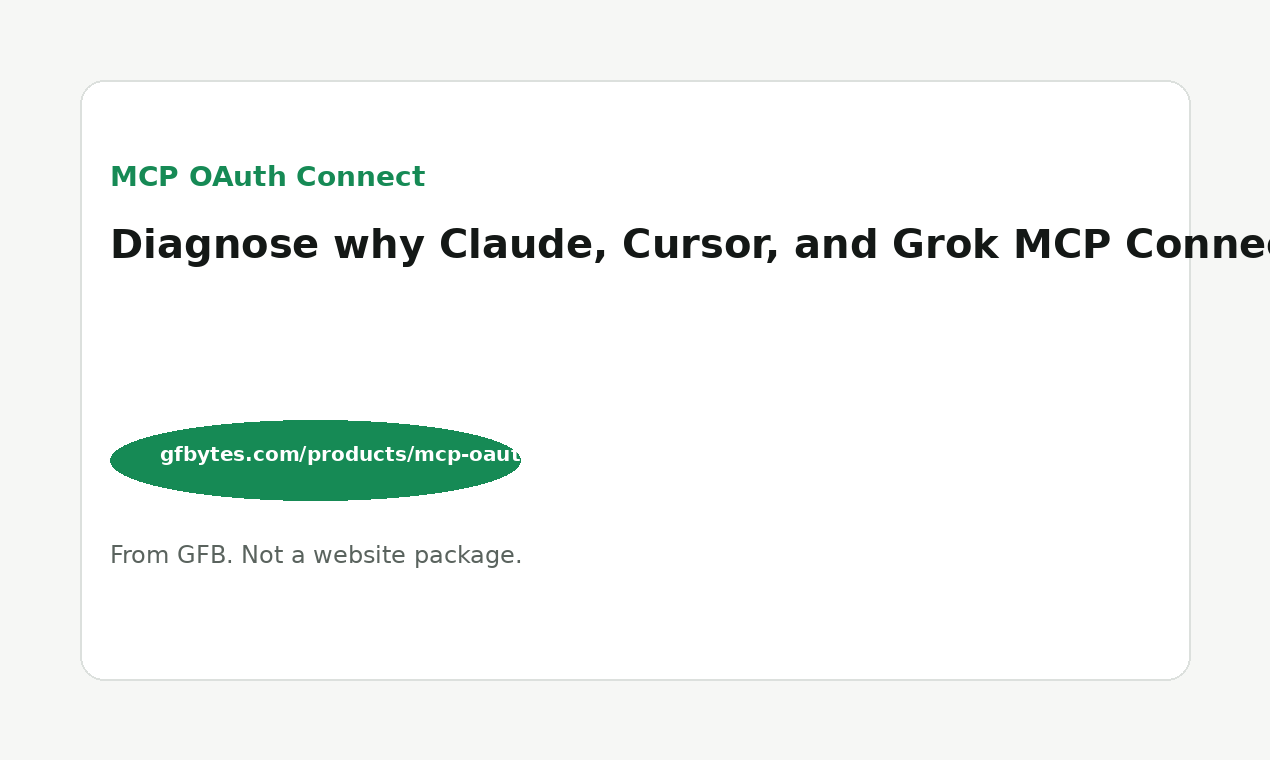
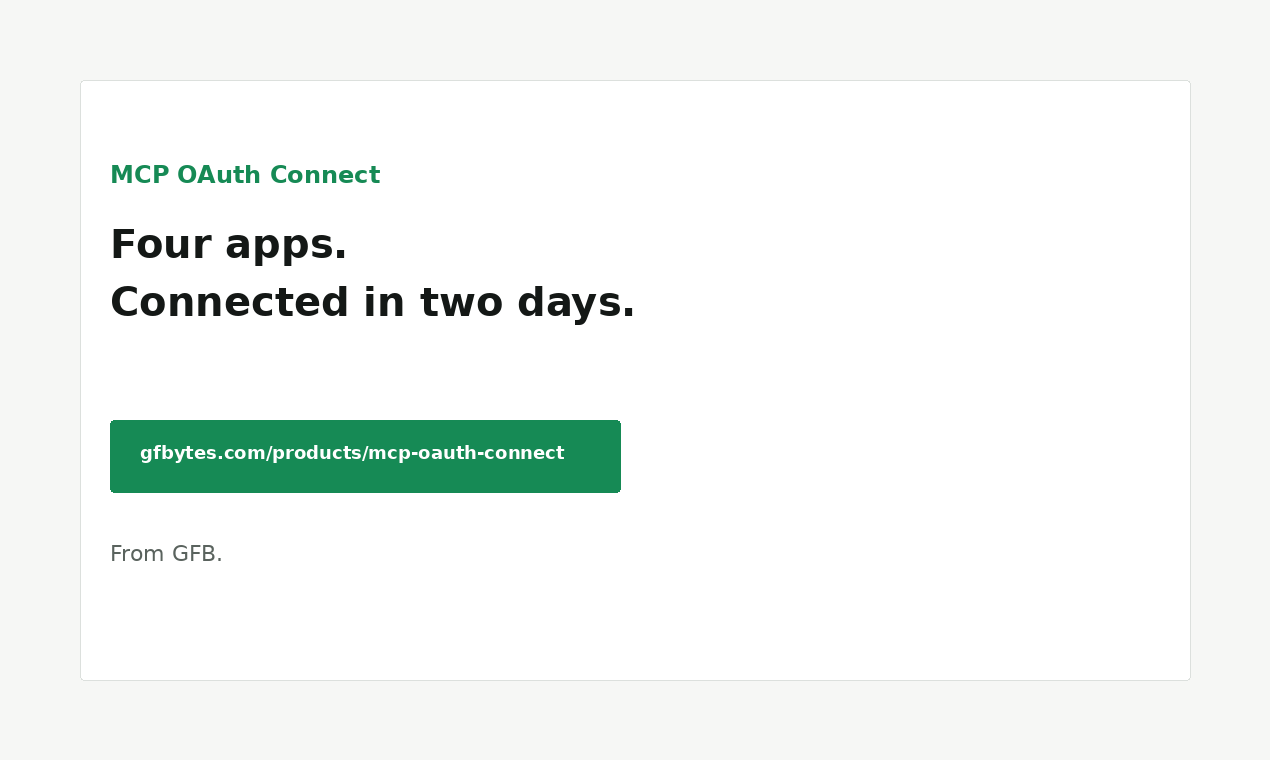
Finish connection-report copy on PH kit and seller docs.
GitHub already sold the $149 report in README/product/landing; this clears
leftover FastMCP-extract language in Product Hunt files, template README,
and license/catalog naming.

diff --git a/license/README.md b/license/README.md
@@ -1,16 +1,16 @@
-# License / cash register (v0.4 gated attach)
+# License / cash register (connection report)
 
-The plugin skill, diagnose script, tests, and `template/` example are MIT. **$149 is a diagnose-gated four-host attach transcript**, not a key to run `template/`.
+The plugin skill, diagnose script, tests, and `template/` example are MIT. **$149 is the connection report** — diagnose-gated four-host screenshots from GFB accounts — not a key to run `template/`.
 
 **Price: $149 one-time.** One round. Two business days. Not monthly. Not Care/Rescue.
 
 **Do not charge inside Cursor official Marketplace.** Charge on the landing Payment Link.
 
-## v0.4 cash register
+## Cash register
 
 Stripe Payment Link on the existing GFB Stripe account. Same legal entity. No Gumroad. No second Stripe identity. Do **not** wire this SKU through `gfb-rescue`.
 
-Product: `prod_V9pfxkWxzrujfU` (name: Four-host attach)
+Product: `prod_V9pfxkWxzrujfU` (MCP connection report)
 Price: `price_1U9qko0hd61SUNoB2zK07NmT` ($149)
 Link: `plink_1U9qko0hd61SUNoBxceRWZZt` https://buy.stripe.com/3cI6oz64ybZJ2dP4ev3Nm0l
 Required custom field: `mcp_url` (MCP URL, 12–255 chars)
@@ -18,6 +18,6 @@ Required custom field: `mcp_url` (MCP URL, 12–255 chars)
 1. Buyer pays via the Payment Link (must paste MCP URL at checkout)
 2. Success URL is `/products/mcp-oauth-connect/thank-you`
 3. Greg runs `diagnose.py` on that URL
-4. Pass → attach from GFB claude.ai / Desktop / Cursor / Grok → deliver transcript (four connected screenshots + handshake capture) within two business days
+4. Pass → connect from GFB claude.ai / Desktop / Cursor / Grok → deliver screenshots within two business days
 5. Fail → quote a separate fix round. Entra without DCR, custom IdPs, consent UI, hosted tenancy, host tools are out of the $149 round
 6. Do **not** run `license/issue.py` for this SKU

diff --git a/catalogs/PUBLISH.md b/catalogs/PUBLISH.md
@@ -1,8 +1,8 @@
 # Catalog pack — MCP OAuth Connect (diagnose origin)
 
-**FREEZE (2026-09-02):** no new catalog submissions (registry republish, Smithery, Glama, PulseMCP, Cursor, Claude directory, extra Grok PRs) until an attach payer exists. Live registry entry and open Grok PR #410 stay as **diagnose-only**. Paid SKU is four-host attach on gfbytes.com, off-catalog.
+**FREEZE (2026-09-02):** no new catalog submissions (registry republish, Smithery, Glama, PulseMCP, Cursor, Claude directory, extra Grok PRs) until a connection-report payer exists. Live registry entry and open Grok PR #410 stay as **diagnose-only**. Paid SKU is the connection report on gfbytes.com, off-catalog.
 
-List the **public ping origin** and the **free diagnose skill**. Do not list `template/` as a paid catalog SKU. Do not list the attach job in a first-party marketplace.
+List the **public ping origin** and the **free diagnose / checker skill**. Do not list `template/` as a paid catalog SKU. Do not list the connection report in a first-party marketplace.
 
 Canonical product: https://gfbytes.com/products/mcp-oauth-connect/
 Demo MCP: https://mcp.gfbytes.com/mcp

diff --git a/license/PAYMENT_LINK.md b/license/PAYMENT_LINK.md
@@ -1,11 +1,12 @@
 # Payment Link (seller)
 
-- Product: `prod_V9pfxkWxzrujfU` (Four-host attach)
+- Product: `prod_V9pfxkWxzrujfU` (MCP connection report)
 - Price: `price_1U9qko0hd61SUNoB2zK07NmT` ($149 USD one-time)
 - Link: `plink_1U9qko0hd61SUNoBxceRWZZt` https://buy.stripe.com/3cI6oz64ybZJ2dP4ev3Nm0l
 - Required field: `mcp_url` (MCP URL, text, 12–255, not optional)
 - Retired: `price_1U9W0T0hd61SUNoB3cpQSW2t` / `plink_1U9W0U0hd61SUNoBluLZ6zGS` ($99, never paid, deactivated 2026-08-29)
 - Success: https://gfbytes.com/products/mcp-oauth-connect/thank-you
 - SKU metadata: `mcp_oauth_connect` / `gated_attach`
+- Deliverable: connection report (four-host screenshots after free checker passes). Not a `template/` key.
 
-After pay: run diagnose.py on the checkout MCP URL. Pass → four-host transcript in two business days. Fail → quote. Do not issue a moc_live_ key. Do not add this SKU to gfb-rescue.
+After pay: run diagnose.py on the checkout MCP URL. Pass → screenshots in two business days. Fail → quote. Do not issue a moc_live_ key. Do not add this SKU to gfb-rescue.

diff --git a/ph/FIRST_COMMENT.md b/ph/FIRST_COMMENT.md
@@ -4,7 +4,7 @@ Hey Product Hunt — I'm Greg. I run connectors for a living and kept hitting th
 
 The scars are boring and specific. Origin PRM 404. Relative `resource_metadata` on the 401. Cross-host 3xx. Static bearer in `mcp.json`. Desktop stripping JSON `url`. Grok wanting a public client on loopback `/callback` with S256.
 
-So this is a diagnose skill plus a live ping-only origin at mcp.gfbytes.com that already survives those four hosts. Install is free. The paid piece is a FastMCP `template/` extract, off-catalog, not a Cursor Marketplace charge.
+So this is a free diagnose / checker skill plus a live ping-only origin at mcp.gfbytes.com that already survives those four hosts. The paid piece on gfbytes is a **connection report**: if your server passes the checker, we sign in from our Claude, Cursor, Desktop, and Grok accounts and send screenshots within two business days. Off-catalog. Not a Cursor Marketplace charge.
 
 I'd love eyes on the handshake, not upvotes. Probe it, break it, tell me which host still lies.
 

diff --git a/template/README.md b/template/README.md
@@ -1,8 +1,8 @@
-# template/ — paid FastMCP OAuth provider
+# template/ — FastMCP OAuth reference (not the $149 SKU)
 
 Ping-only FastMCP server with an allowlist-gated OAuth 2.0 / DCR provider.
 
-Copy this directory. Set `MCP_ISSUER_URL`. Run with `MCP_OAUTH_DEV=1` until you have a key.
+This directory is the public ping-only example behind https://mcp.gfbytes.com. It is MIT. The **gfbytes paid offer is the connection report** (screenshots from GFB accounts), not a sale of this tree. Copy this directory to wire your own ping-only origin. Set `MCP_ISSUER_URL`. `MCP_OAUTH_DEV=1` skips any local license gate leftover from earlier packaging.
 
 ## Auto-approve residual (read this first)
 
@@ -16,4 +16,4 @@ This template is not a substitute for a real consent UI.
 
 ## Env
 
-See `env.example`. License: `MCP_OAUTH_LICENSE_KEY` or `MCP_OAUTH_DEV=1`.
+See `env.example`. Optional local gate leftovers: `MCP_OAUTH_LICENSE_KEY` or `MCP_OAUTH_DEV=1`. Not part of the gfbytes connection-report SKU.

diff --git a/ph/README.md b/ph/README.md
@@ -5,7 +5,7 @@ Do **not** hunt until Greg says the date. Kit is staged so a Tuesday 12:01 PT su
 | Field | File / URL |
 |-------|------------|
 | Name | MCP OAuth Connect |
-| Tagline (60) | `TAGLINE.txt` (58 chars) |
+| Tagline (60) | `TAGLINE.txt` (33 chars) |
 | Description | `DESCRIPTION.txt` |
 | Website | https://gfbytes.com/products/mcp-oauth-connect/ |
 | Thumbnail 240×240 | `assets/mark-240.png` |
@@ -13,6 +13,6 @@ Do **not** hunt until Greg says the date. Kit is staged so a Tuesday 12:01 PT su
 | OG | `assets/og-1200x630.png` |
 | Topics | `TOPICS.txt` |
 | First comment | `FIRST_COMMENT.md` |
-| Pricing on PH | Free (diagnose). Paid extract is on-site, second CTA. |
+| Pricing on PH | Free (checker). Paid connection report is on-site, second CTA. |
 
-Hunt the diagnose job. Do not hunt “$149 FastMCP extract”.
+Hunt the diagnose / checker job. Do not hunt “$149 FastMCP extract”. The live offer is the connection report.
